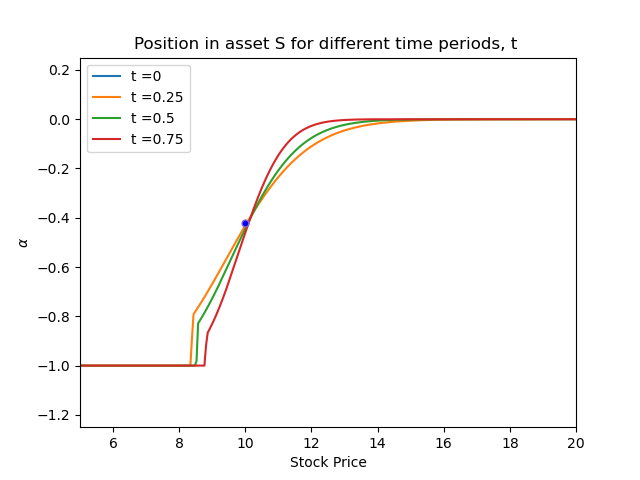
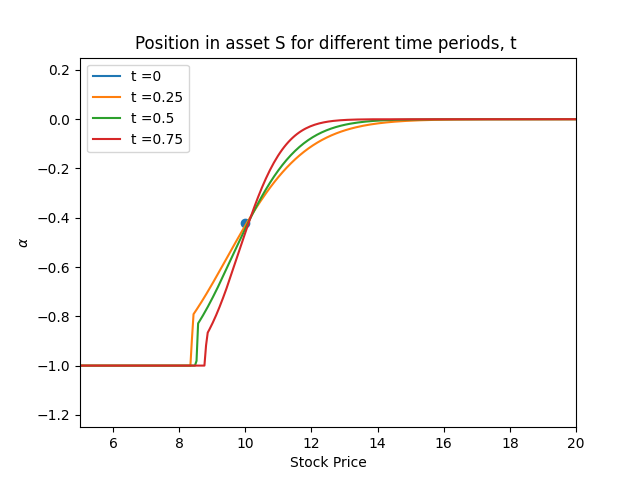
Time 0

diff --git a/Hedging_Function_American.py b/Hedging_Function_American.py
@@ -66,11 +66,12 @@ def Hedge_Position  (TimeToExpiry, InitialPrice, mu, sigma, RiskfreeRate, TotalS
         #print(priceTree[:,int(i)])
         plt.plot(priceTree[:,int(i)], hedge_position[:,int(i)], label = f't ={hedgetimes[hedgetimes2.index(i)]}')
 
-    plt.plot(priceTree[0,0], hedge_position[0,0], marker="o", markersize=5, markerfacecolor="blue")
+
     plt.xlabel('Stock Price')
     plt.ylabel(r'$\alpha$')
     plt.xlim(5, 20)
-    plt.ylim( -1.25,0.25)
+    plt.ylim(-1.25,0.25)
+    plt.scatter(priceTree[0,0], hedge_position[0,0])
     plt.title('Position in asset S for different time periods, t ')
     plt.legend()
     plt.savefig('Hedging_Strategy_Risky_Am.png')
@@ -95,11 +96,11 @@ def Hedge_Position  (TimeToExpiry, InitialPrice, mu, sigma, RiskfreeRate, TotalS
     for i in hedgetimes2:
         plt.plot(priceTree[:, int(i)], hedge_position_B[:,int(i)], label = f't ={hedgetimes[hedgetimes2.index(i)]}')
 
-    plt.plot(priceTree[0,0], hedge_position_B[0,0], marker="o", markersize=5, markerfacecolor="blue")
     plt.xlabel('S Price')
     plt.ylabel(r'$\beta$')
     plt.xlim(5, 20)
     plt.ylim(-1,11)
+    plt.scatter(priceTree[0,0], hedge_position_B[0,0])
     plt.title('Position in asset B for different time periods, t ')
     plt.legend()
     plt.savefig('Hedging_Strategy_Rf_Am.png')

diff --git a/Hedging_Function_European.py b/Hedging_Function_European.py
@@ -68,6 +68,7 @@ def Hedge_Position  (TimeToExpiry, InitialPrice, mu, sigma, RiskfreeRate, TotalS
     plt.ylabel(r'$\alpha$')
     plt.xlim(5, 20)
     plt.ylim( -1.25,0.25)
+    plt.scatter(priceTree[0,0], hedge_position[0,0])
     plt.title('Position in asset S for different time periods, t, with European Option ')
     plt.legend()
     plt.savefig('Hedging_Strategy_Risky_Euro.png')
@@ -96,6 +97,7 @@ def Hedge_Position  (TimeToExpiry, InitialPrice, mu, sigma, RiskfreeRate, TotalS
     plt.ylabel(r'$\beta$')
     plt.xlim(5, 20)
     plt.ylim(-1,11)
+    plt.scatter(priceTree[0,0], hedge_position_B[0,0])
     plt.title('Position in asset B for different time periods, t, with European Option ')
     plt.legend()
     plt.savefig('Hedging_Strategy_Rf_Euro.png')
